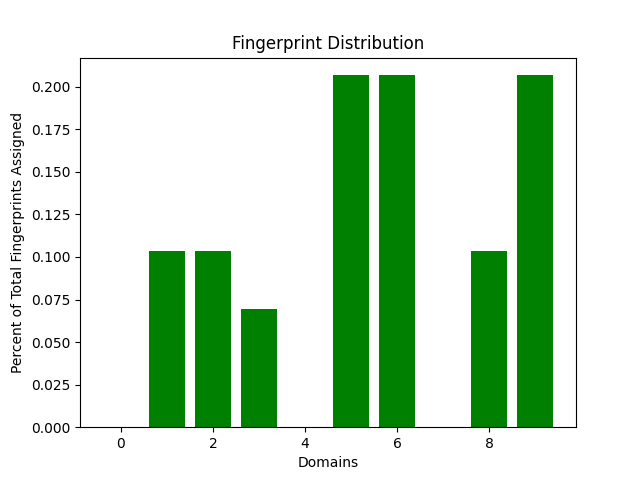
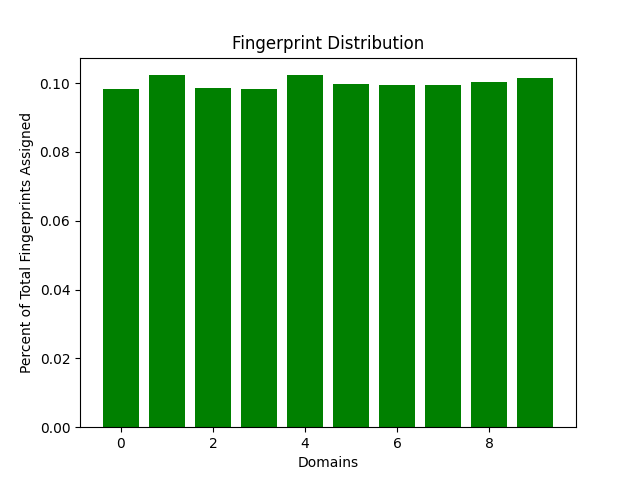
fixed end_to_end_example.py

diff --git a/simulator/end_to_end_example.py b/simulator/end_to_end_example.py
@@ -2,12 +2,12 @@ import os
 
 from tqdm import tqdm
 
-from simulator.back_end.src.back_end.kv_store.store import KeyValueStore
-from simulator.front_end.src.front_end.region_creation.fixed_region import create_fixed_regions
-from simulator.front_end.src.front_end.region_creation.input_streams import HashFile
+from back_end.store import KeyValueStore
+from front_end.region_creation.fixed_region import create_fixed_regions
+from front_end.region_creation.input_streams import HashFile
 import matplotlib.pyplot as plt
 
-from simulator.front_end.src.front_end.routing.simple_algo import simple_routing
+from front_end.routing.simple_algo import simple_routing
 
 
 def plot_distribution(domain_stats: [float]):
@@ -32,7 +32,7 @@ def plot_compression_ratio(domain_stats: [float]):
     plt.close(fig)
 
 
-def locally_running_example(num_domains: int = 10, max_input_files: int = 10, hash_file_dir: str = './hash_files/'):
+def locally_running_example(hash_file_dir: str, num_domains: int = 10, max_input_files: int = 10):
     domains = [KeyValueStore() for _ in range(num_domains)]
     hash_files = [file for file in os.listdir(hash_file_dir) if file.endswith(".hash.anon")]
     num_files = len(hash_files)
@@ -61,7 +61,7 @@ def locally_running_example(num_domains: int = 10, max_input_files: int = 10, ha
 
 
 def main():
-    locally_running_example()
+    locally_running_example('./front_end/src/front_end/hash_files/')
 
 
 if __name__ == "__main__":
